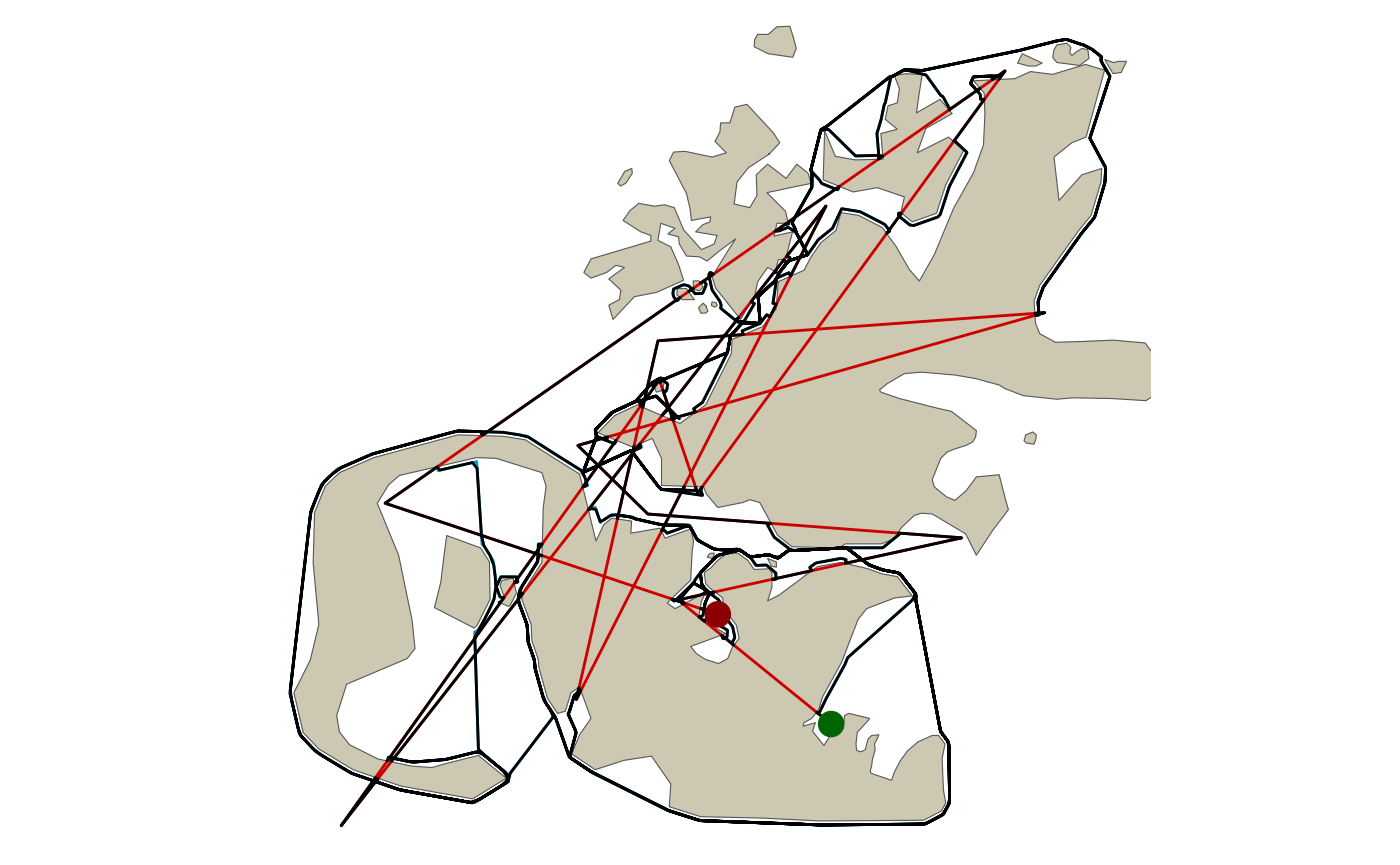
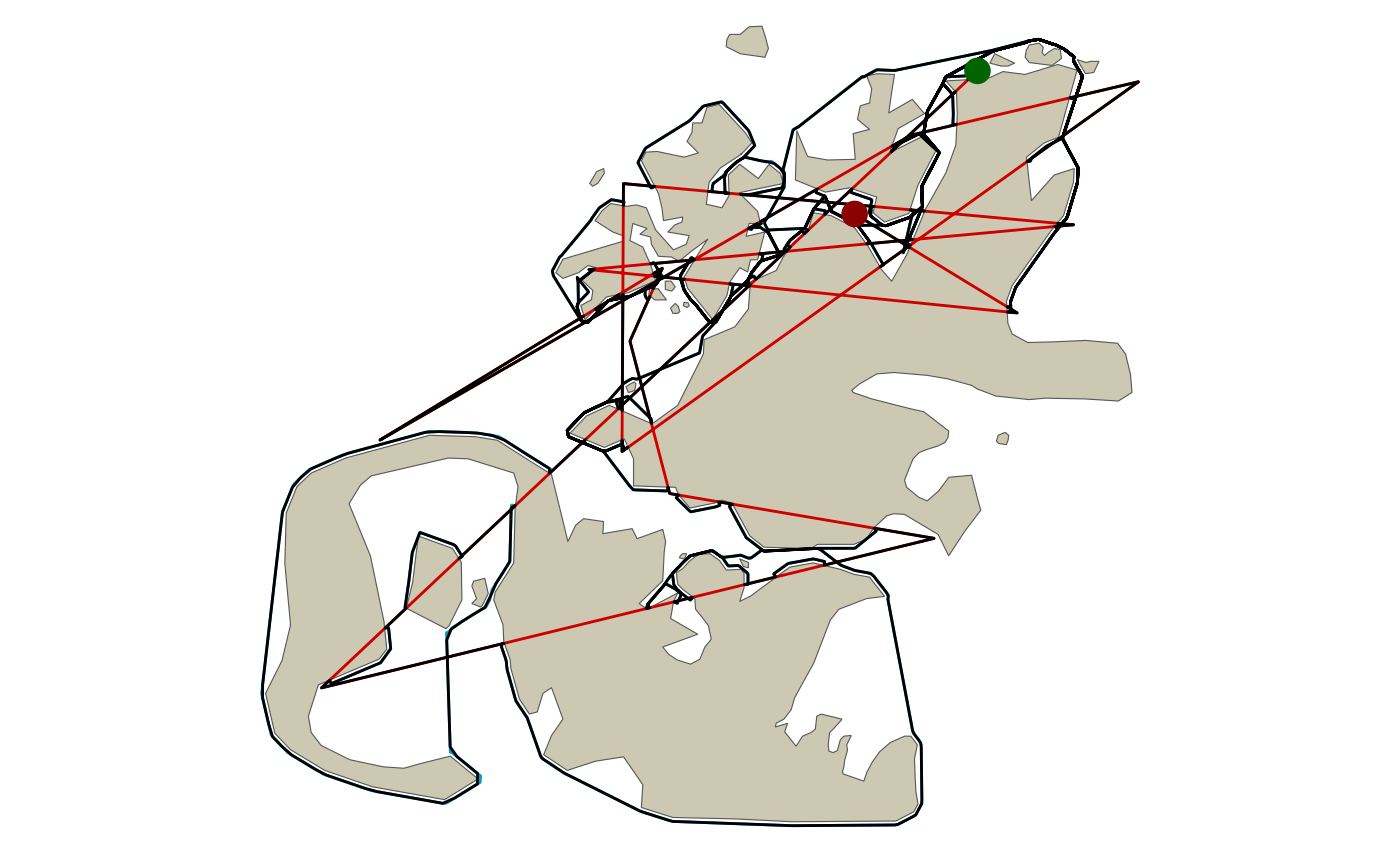
Deploying to gh-pages from @ jmlondon/pathroutr@372beedb3c18ac1ecd8004bf4d587b05c1c4467a 🚀

Changed region(s): [[0.1843, 0.0312, 0.8293, 0.9676], [0.7679, 0.3746, 0.8293, 0.4682], [0.5221, 0.0312, 0.5836, 0.0624]]

diff --git a/articles/reroute_demo.html b/articles/reroute_demo.html
@@ -156,20 +156,20 @@ with these geometries.</p>
 <div class="sourceCode" id="cb6"><pre class="downlit sourceCode r">
 <code class="sourceCode R"><span><span class="va">segs_tbl</span> <span class="op">&lt;-</span> <span class="fu"><a href="../reference/get_barrier_segments.html">get_barrier_segments</a></span><span class="op">(</span><span class="va">track_pts</span>,<span class="va">land_barrier</span><span class="op">)</span></span>
 <span><span class="va">segs_tbl</span></span>
-<span><span class="co">#&gt; <span style="color: #949494;"># A tibble: 42 × 6</span></span></span>
+<span><span class="co">#&gt; <span style="color: #949494;"># A tibble: 39 × 6</span></span></span>
 <span><span class="co">#&gt;      sid start_idx end_idx n_pts            start_pt</span></span>
 <span><span class="co">#&gt;    <span style="color: #949494; font-style: italic;">&lt;int&gt;</span>     <span style="color: #949494; font-style: italic;">&lt;dbl&gt;</span>   <span style="color: #949494; font-style: italic;">&lt;dbl&gt;</span> <span style="color: #949494; font-style: italic;">&lt;dbl&gt;</span>         <span style="color: #949494; font-style: italic;">&lt;POINT [m]&gt;</span></span></span>
-<span><span class="co">#&gt; <span style="color: #BCBCBC;"> 1</span>     1        33     218   184 (85824.04 935894.4)</span></span>
-<span><span class="co">#&gt; <span style="color: #BCBCBC;"> 2</span>     2       245     283    37 (82196.32 938837.6)</span></span>
-<span><span class="co">#&gt; <span style="color: #BCBCBC;"> 3</span>     3       296     331    34 (81323.61 939545.7)</span></span>
-<span><span class="co">#&gt; <span style="color: #BCBCBC;"> 4</span>     4       381     390     8 (81376.99 940367.8)</span></span>
-<span><span class="co">#&gt; <span style="color: #BCBCBC;"> 5</span>     5       406     509   102 (81915.14 940485.5)</span></span>
-<span><span class="co">#&gt; <span style="color: #BCBCBC;"> 6</span>     6       579     638    58 (85639.15 941300.5)</span></span>
-<span><span class="co">#&gt; <span style="color: #BCBCBC;"> 7</span>     7       955    <span style="text-decoration: underline;">1</span>176   220  (88924.9 942735.2)</span></span>
-<span><span class="co">#&gt; <span style="color: #BCBCBC;"> 8</span>     8      <span style="text-decoration: underline;">1</span>613    <span style="text-decoration: underline;">1</span>726   112 (77856.78 946399.8)</span></span>
-<span><span class="co">#&gt; <span style="color: #BCBCBC;"> 9</span>     9      <span style="text-decoration: underline;">1</span>771    <span style="text-decoration: underline;">2</span>382   610 (81205.59 947352.1)</span></span>
-<span><span class="co">#&gt; <span style="color: #BCBCBC;">10</span>    10      <span style="text-decoration: underline;">2</span>416    <span style="text-decoration: underline;">2</span>922   505 (94147.97 951111.3)</span></span>
-<span><span class="co">#&gt; <span style="color: #949494;"># ℹ 32 more rows</span></span></span>
+<span><span class="co">#&gt; <span style="color: #BCBCBC;"> 1</span>     1        23      54    30  (92649.8 960024.5)</span></span>
+<span><span class="co">#&gt; <span style="color: #BCBCBC;"> 2</span>     2       209     304    94 (89719.68 957268.6)</span></span>
+<span><span class="co">#&gt; <span style="color: #BCBCBC;"> 3</span>     3       370     410    39 (87183.39 954883.2)</span></span>
+<span><span class="co">#&gt; <span style="color: #BCBCBC;"> 4</span>     4       419     453    33 (86411.47 954157.2)</span></span>
+<span><span class="co">#&gt; <span style="color: #BCBCBC;"> 5</span>     5       537     550    12 (84552.58 952408.8)</span></span>
+<span><span class="co">#&gt; <span style="color: #BCBCBC;"> 6</span>     6       869     949    79 (79322.47 947489.8)</span></span>
+<span><span class="co">#&gt; <span style="color: #BCBCBC;"> 7</span>     7      <span style="text-decoration: underline;">1</span>035    <span style="text-decoration: underline;">1</span>118    82 (76707.42 945030.2)</span></span>
+<span><span class="co">#&gt; <span style="color: #BCBCBC;"> 8</span>     8      <span style="text-decoration: underline;">1</span>254    <span style="text-decoration: underline;">1</span>382   127 (73257.44 941785.4)</span></span>
+<span><span class="co">#&gt; <span style="color: #BCBCBC;"> 9</span>     9      <span style="text-decoration: underline;">1</span>433    <span style="text-decoration: underline;">1</span>567   133 (70437.59 939133.3)</span></span>
+<span><span class="co">#&gt; <span style="color: #BCBCBC;">10</span>    10      <span style="text-decoration: underline;">1</span>918    <span style="text-decoration: underline;">2</span>176   257 (74970.83 938551.9)</span></span>
+<span><span class="co">#&gt; <span style="color: #949494;"># ℹ 29 more rows</span></span></span>
 <span><span class="co">#&gt; <span style="color: #949494;"># ℹ 1 more variable: end_pt &lt;POINT [m]&gt;</span></span></span></code></pre></div>
 <p>Our next step is to create a visibility graph. This is, essentially,
 a road network for our marine environment. In simple terms, we connect
